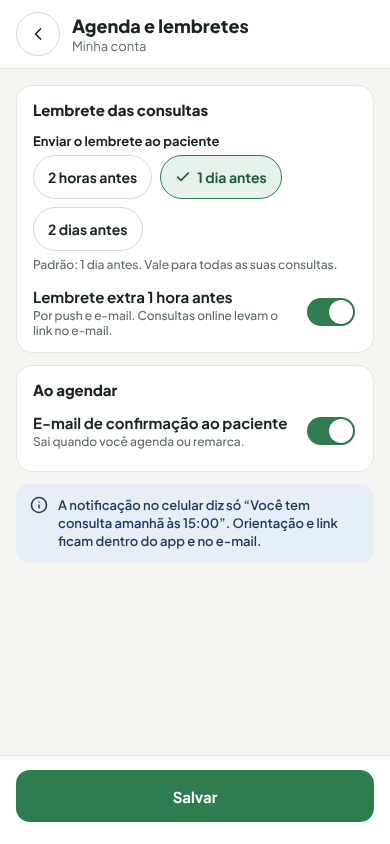
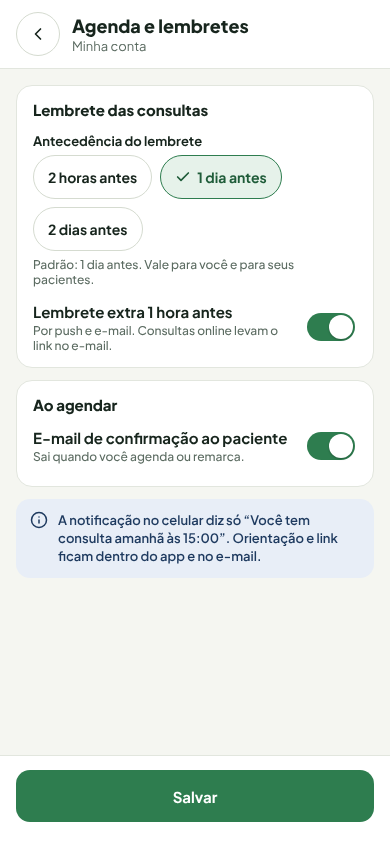
Ajusta texto da antecedência do lembrete à decisão D-08 (DES-17)
Claude-Session: https://claude.ai/code/session_0136NnwebiLLmfxAkL5q671k

diff --git a/mobile/docs/design/artboards/A-Conta-Lembrete.dc.html b/mobile/docs/design/artboards/A-Conta-Lembrete.dc.html
@@ -18,7 +18,7 @@ button{cursor:pointer}
 </style>
 </helmet>
 <div style="width: 390px; height: 844px; overflow: hidden; box-sizing: border-box; background: #F5F6F1; color: #17251D; font-family: 'Plus Jakarta Sans', system-ui, sans-serif; position: relative; display: flex; flex-direction: column">
-<header style="min-height:68px;flex-shrink:0;background:#fff;border-bottom:1px solid #E2E6DE;display:flex;align-items:center;gap:12px;padding:0 16px"><button aria-label="Voltar" style="width:44px;height:44px;border-radius:22px;border:1px solid #D5DBD0;background:#fff;color:#17251D;display:flex;align-items:center;justify-content:center;padding:0;flex-shrink:0"><svg width="20" height="20" viewBox="0 0 24 24" fill="none" stroke="currentColor" stroke-width="2" stroke-linecap="round" stroke-linejoin="round" aria-hidden="true"><path d="m15 18-6-6 6-6"></path></svg></button><div style="display:flex;flex-direction:column;gap:1px;min-width:0;flex:1"><h1 style="margin:0;font-size:18px;font-weight:800">Agenda e lembretes</h1><span style="font-size:13px;color:#5B6B61">Minha conta</span></div></header><main style="flex:1;min-height:0;overflow:hidden;padding:16px;padding-bottom:96px;display:flex;flex-direction:column;gap:12px"><section style="background:#fff;border:1px solid #E2E6DE;border-radius:16px;padding:14px 16px;display:flex;flex-direction:column;gap:14px;"><div style="display:flex;align-items:center;justify-content:space-between;gap:8px"><h2 style="margin:0;font-size:15px;font-weight:800">Lembrete das consultas</h2></div><div style="display:flex;flex-direction:column;gap:6px"><span id="ant-l" style="font-size:13px;font-weight:700">Enviar o lembrete ao paciente</span><div role="radiogroup" aria-labelledby="ant-l" style="display:flex;flex-wrap:wrap;gap:8px"><button aria-pressed="false" style="height:44px;padding:0 14px;border-radius:999px;background:#fff;color:#17251D;border:1px solid #D5DBD0;font-size:14px;font-weight:700;white-space:nowrap;">2 horas antes</button><button aria-pressed="true" style="height:44px;padding:0 14px;border-radius:999px;background:#E6F2EA;color:#1F5C39;border:1px solid #2E7D4F;font-size:14px;font-weight:700;white-space:nowrap;display:flex;align-items:center;gap:6px;"><svg width="16" height="16" viewBox="0 0 24 24" fill="none" stroke="currentColor" stroke-width="2.5" stroke-linecap="round" stroke-linejoin="round" aria-hidden="true"><path d="M20 6 9 17l-5-5"></path></svg>1 dia antes</button><button aria-pressed="false" style="height:44px;padding:0 14px;border-radius:999px;background:#fff;color:#17251D;border:1px solid #D5DBD0;font-size:14px;font-weight:700;white-space:nowrap;">2 dias antes</button></div><span style="font-size:12px;color:#5B6B61;font-weight:500;">Padrão: 1 dia antes. Vale para todas as suas consultas.</span></div><div style="display:flex;align-items:center;gap:12px;min-height:52px"><div style="flex:1;display:flex;flex-direction:column;gap:2px"><span id="extra" style="font-size:15px;font-weight:700">Lembrete extra 1 hora antes</span><span style="font-size:12px;color:#5B6B61;font-weight:500;">Por push e e-mail. Consultas online levam o link no e-mail.</span></div>
+<header style="min-height:68px;flex-shrink:0;background:#fff;border-bottom:1px solid #E2E6DE;display:flex;align-items:center;gap:12px;padding:0 16px"><button aria-label="Voltar" style="width:44px;height:44px;border-radius:22px;border:1px solid #D5DBD0;background:#fff;color:#17251D;display:flex;align-items:center;justify-content:center;padding:0;flex-shrink:0"><svg width="20" height="20" viewBox="0 0 24 24" fill="none" stroke="currentColor" stroke-width="2" stroke-linecap="round" stroke-linejoin="round" aria-hidden="true"><path d="m15 18-6-6 6-6"></path></svg></button><div style="display:flex;flex-direction:column;gap:1px;min-width:0;flex:1"><h1 style="margin:0;font-size:18px;font-weight:800">Agenda e lembretes</h1><span style="font-size:13px;color:#5B6B61">Minha conta</span></div></header><main style="flex:1;min-height:0;overflow:hidden;padding:16px;padding-bottom:96px;display:flex;flex-direction:column;gap:12px"><section style="background:#fff;border:1px solid #E2E6DE;border-radius:16px;padding:14px 16px;display:flex;flex-direction:column;gap:14px;"><div style="display:flex;align-items:center;justify-content:space-between;gap:8px"><h2 style="margin:0;font-size:15px;font-weight:800">Lembrete das consultas</h2></div><div style="display:flex;flex-direction:column;gap:6px"><span id="ant-l" style="font-size:13px;font-weight:700">Antecedência do lembrete</span><div role="radiogroup" aria-labelledby="ant-l" style="display:flex;flex-wrap:wrap;gap:8px"><button aria-pressed="false" style="height:44px;padding:0 14px;border-radius:999px;background:#fff;color:#17251D;border:1px solid #D5DBD0;font-size:14px;font-weight:700;white-space:nowrap;">2 horas antes</button><button aria-pressed="true" style="height:44px;padding:0 14px;border-radius:999px;background:#E6F2EA;color:#1F5C39;border:1px solid #2E7D4F;font-size:14px;font-weight:700;white-space:nowrap;display:flex;align-items:center;gap:6px;"><svg width="16" height="16" viewBox="0 0 24 24" fill="none" stroke="currentColor" stroke-width="2.5" stroke-linecap="round" stroke-linejoin="round" aria-hidden="true"><path d="M20 6 9 17l-5-5"></path></svg>1 dia antes</button><button aria-pressed="false" style="height:44px;padding:0 14px;border-radius:999px;background:#fff;color:#17251D;border:1px solid #D5DBD0;font-size:14px;font-weight:700;white-space:nowrap;">2 dias antes</button></div><span style="font-size:12px;color:#5B6B61;font-weight:500;">Padrão: 1 dia antes. Vale para você e para seus pacientes.</span></div><div style="display:flex;align-items:center;gap:12px;min-height:52px"><div style="flex:1;display:flex;flex-direction:column;gap:2px"><span id="extra" style="font-size:15px;font-weight:700">Lembrete extra 1 hora antes</span><span style="font-size:12px;color:#5B6B61;font-weight:500;">Por push e e-mail. Consultas online levam o link no e-mail.</span></div>
 <button role="switch" aria-checked="true" aria-labelledby="extra" style="width:52px;height:44px;border:0;background:transparent;padding:0;display:flex;align-items:center;justify-content:center"><span style="position:relative;width:48px;height:28px;border-radius:14px;background:#2E7D4F;display:block"><span style="position:absolute;top:2px;left:22px;width:24px;height:24px;border-radius:12px;background:#fff;box-shadow:0 1px 2px rgba(0,0,0,.25)"></span></span></button></div></section><section style="background:#fff;border:1px solid #E2E6DE;border-radius:16px;padding:14px 16px;display:flex;flex-direction:column;gap:6px;"><div style="display:flex;align-items:center;justify-content:space-between;gap:8px"><h2 style="margin:0;font-size:15px;font-weight:800">Ao agendar</h2></div><div style="display:flex;align-items:center;gap:12px;min-height:52px"><div style="flex:1;display:flex;flex-direction:column;gap:2px"><span id="conf" style="font-size:15px;font-weight:700">E-mail de confirmação ao paciente</span><span style="font-size:12px;color:#5B6B61;font-weight:500;">Sai quando você agenda ou remarca.</span></div>
 <button role="switch" aria-checked="true" aria-labelledby="conf" style="width:52px;height:44px;border:0;background:transparent;padding:0;display:flex;align-items:center;justify-content:center"><span style="position:relative;width:48px;height:28px;border-radius:14px;background:#2E7D4F;display:block"><span style="position:absolute;top:2px;left:22px;width:24px;height:24px;border-radius:12px;background:#fff;box-shadow:0 1px 2px rgba(0,0,0,.25)"></span></span></button></div></section><div role="note" style="display:flex;gap:10px;padding:12px 14px;background:#E8EEF7;border-radius:14px;align-items:flex-start"><svg width="18" height="18" viewBox="0 0 24 24" fill="none" stroke="#1E3A5F" stroke-width="2" stroke-linecap="round" stroke-linejoin="round" aria-hidden="true" style="flex-shrink: 0"><circle cx="12" cy="12" r="10"></circle><path d="M12 16v-4"></path><path d="M12 8h.01"></path></svg><div style="flex:1;display:flex;flex-direction:column;gap:6px"><span style="font-size:13px;color:#1E3A5F;font-weight:600;line-height:1.4">A notificação no celular diz só “Você tem consulta amanhã às 15:00”. Orientação e link ficam dentro do app e no e-mail.</span></div></div></main><div style="position:absolute;left:0;right:0;bottom:0;padding:14px 16px 22px;background:#fff;border-top:1px solid #E2E6DE;display:flex;gap:10px"><button style="height:52px;padding:0 18px;border-radius:14px;border:0;background:#2E7D4F;color:#fff;font-size:15px;font-weight:700;flex:1">Salvar</button></div>
 </div>

diff --git a/mobile/docs/design/artboards/INDICE-POR-TAREFA.md b/mobile/docs/design/artboards/INDICE-POR-TAREFA.md
@@ -14,7 +14,7 @@ Fotos em `../evidencias/DES-NN/`. Dados de exemplo fictícios (paciente "Ana Lim
 | **MOB-83** Montador: alerta e confirmação | `A-Montador-Alerta` (alerta de alergia com Revisar/Trocar, aviso de intolerância, Publicar bloqueado), `A-Montador-Confirmar` (diálogo de confirmação) | Intolerância só avisa; alergia exige confirmação por item antes de publicar (`ALERGIA_NAO_CONFIRMADA`) |
 | **MOB-84** Agenda: formulário e status | `A-Consulta-Form` (tipo, modalidade, link, orientação, observação interna), `A-Consulta-Status` (Realizada, Faltou, Remarcar, Cancelar) | Link só aparece com modalidade Online. Realizada/Falta atualizam o financeiro (RN-FIN-01); para o paciente viram "Consulta encerrada" |
 | **MOB-85** Agenda: visão do mês | `A-Agenda-Mes` (Dia/Semana/Mês, pontos por consulta, horário livre abre a nova consulta) | Hoje com contorno, dia escolhido preenchido |
-| **MOB-86** Preferência de lembrete | `A-Conta-Lembrete` (2 h, 1 dia, 2 dias; extra 1 h antes; e-mail de confirmação) | Push sem dado clínico (RN-NOT-02) |
+| **MOB-86** Preferência de lembrete | `A-Conta-Lembrete` (2 h, 1 dia, 2 dias; extra 1 h antes; e-mail de confirmação) | Vale para a nutri e para os pacientes (D-08). Push sem dado clínico (RN-NOT-02) |
 | **MOB-87** Paciente: próxima consulta | `P-Proxima-Consulta` (cartão no Hoje com "Entrar na consulta" e a orientação) | O `.ics` não leva link nem orientação |
 
 ## Mobile pendente
